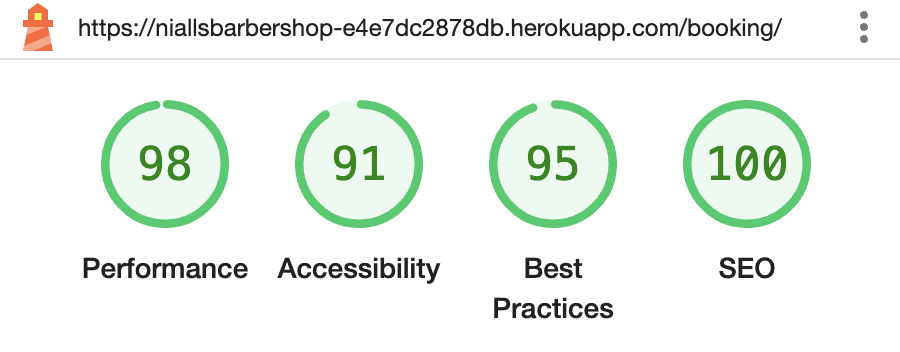
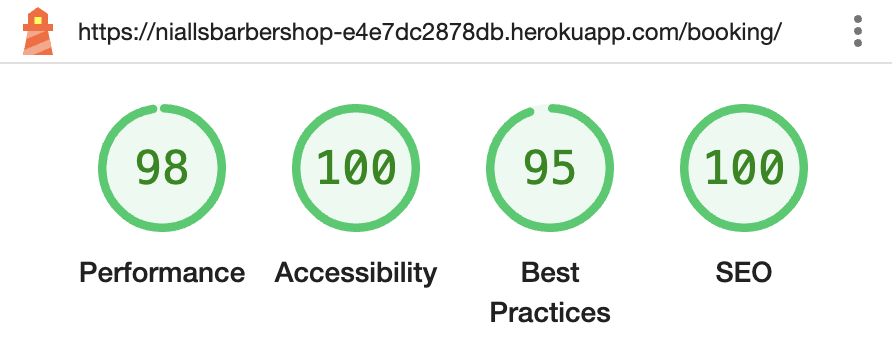
Add all lighthouse reports

diff --git a/booking_system/templates/booking_system/booking_detail.html b/booking_system/templates/booking_system/booking_detail.html
@@ -5,7 +5,7 @@
   <div class="d-flex justify-content-center push-down">
     <div class="card gold-shadow p-3 m-3 text-center w-75 pb-5">
       <div class="d-flex justify-content-end ">
-        <a href="{% url 'booking-home' %}" class="btn btn-outline-dark gold-shadow custom-close-btn" arila-label="close"><i class="fa-solid fa-scissors"></i></a>
+        <a href="{% url 'booking-home' %}" class="btn btn-outline-dark gold-shadow custom-close-btn" aria-label="close"><i class="fa-solid fa-scissors"></i></a>
       </div>
       <div>
         <h2 class="text-center">{{ booking.date_of_booking|date:"l j F Y" }}</h2><br>
@@ -37,12 +37,12 @@
          <a
           href="{% url 'booking-update' booking.id %}"
           class="btn custom-button-light-gold pt-3"
-          ><h5>Edit Appointment</h5></a
+          ><h4>Edit Appointment</h5></a
         > 
         <a
           href="{%  url 'booking-delete' booking.id  %}"
           class="btn custom-button-dark-gold pt-3 light-text"
-          ><h5>Cancel Appointment</h5></a
+          ><h4>Cancel Appointment</h5></a
         >
       </div>
     </div>

diff --git a/niallsbarbershop/settings.py b/niallsbarbershop/settings.py
@@ -91,7 +91,7 @@ MESSAGE_TAGS = {
 
 MIDDLEWARE = [
     'django.middleware.security.SecurityMiddleware',
-    "whitenoise.middleware.WhiteNoiseMiddleware",
+    # "whitenoise.middleware.WhiteNoiseMiddleware",
     'django.contrib.sessions.middleware.SessionMiddleware',
     'allauth.account.middleware.AccountMiddleware',
     'django.middleware.common.CommonMiddleware',

diff --git a/TESTING.md b/TESTING.md
@@ -247,12 +247,23 @@ JavaScript code was run through [JSHINT](https://jshint.com) javascript validato
 
 This had warnings about the use of let, but as this code came from the Code Institute walkthrough project I assumed it acceptable.
 
-## Lighthouse Report
+## Lighthouse Reports
+All lighthouse reports for all pages came back with a score of at least 91, you can see the full reports below.
 
 Landing Page<br>
-![Lighthouse](media/lighthouse-landing.png)
+![Lighthouse Landing Page](media/lighthouse-landing.png)
 Account Home<br>
-![Lighthouse](media/lighthouse-account-home.png)
+![Lighthouse Account Home](media/lighthouse-account-home.png)
+Booking Detail<br>
+![Lighthouse Booking Detail](media/lighthouse-booking-detail.png)
+Booking Form<br>
+![Lighthouse Booking Form](media/lighthouse-booking-form.png)
+Logout<br>
+![Lighthouse Logout](media/lighthouse-logout.png)
+Sign Up<br>
+![Lighthouse Sign Up](media/lighthouse-signup.png)
+Log In<br>
+![Lighthouse Log In](media/lighthouse-login.png)
 
 ## Responsiveness
 
